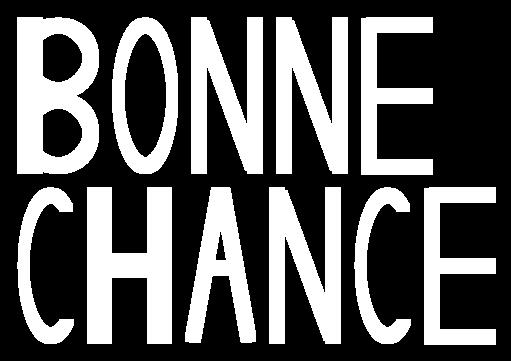
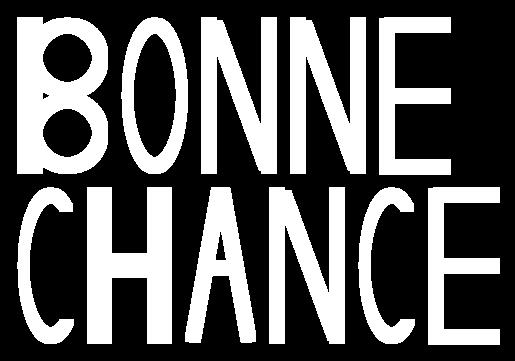
add method for translate and rotate, add constant

diff --git a/src/main/java/Letter/LetterFactory.java b/src/main/java/Letter/LetterFactory.java
@@ -16,7 +16,16 @@ public final class LetterFactory {
     private static final int rotateStripeN = -20;
     private static final double removeTranslateStripeC = stripeThickness+3;
     private static final double translateStripeE = halfMaxHeight-4;
+    private static final double ellipseHeight = maxHeight-stripeThickness;
+    private static final double ellipseWidth = halfMaxWidth+stripeThickness;
+    private static final double stripeHeightC =(ellipseHeight-stripeThickness);
 
+    public static void translateShape(BaseShape shape, double x, double y){
+        shape.translate(shape.getCoords(), new Point2d(x,y));
+    }
+    public static void rotateShape(BaseShape shape, double angle){
+        shape.rotate(shape.getCoords(), Math.toRadians(angle));
+    }
 
     /** TODO
      * Create the letter A graphically
@@ -24,12 +33,12 @@ public final class LetterFactory {
      */
     public static BaseShape create_A()  {
         Rectangle letter = new Rectangle(halfStripeThickness,maxHeight);
-        letter.translate(letter.getCoords(), new Point2d(-(halfMaxWidth/2),0.0));
-        letter.rotate(letter.getCoords(),Math.toRadians(rotateStripeA));
+        translateShape(letter, -(halfMaxWidth/2), 0.0);
+        rotateShape(letter, rotateStripeA);
 
         Rectangle rightStripe = new Rectangle(halfStripeThickness,maxHeight);
-        rightStripe.translate(rightStripe.getCoords(), new Point2d((halfMaxWidth/2),0.0));
-        rightStripe.rotate(rightStripe.getCoords(), Math.toRadians(-rotateStripeA));
+        translateShape(rightStripe, (halfMaxWidth/2), 0.0);
+        rotateShape(rightStripe, -rotateStripeA);
 
         Rectangle middleStripe = new Rectangle(halfMaxWidth,halfStripeThickness);
 
@@ -43,19 +52,18 @@ public final class LetterFactory {
      * @return BaseShape containing the letter B
      */
     public static BaseShape create_B() {
-        double radius = halfMaxHeight/2;
-        double smallRadius = radius - halfStripeThickness;
+        double smallRadius = (halfMaxHeight/2) - halfStripeThickness;
 
         Rectangle letter = new Rectangle(stripeThickness, maxHeight);
         Circle topCircle = new Circle(halfMaxHeight/2);
         Circle bottomCircle = new Circle(halfMaxHeight/2);
         Circle insideCircle = new Circle(smallRadius);
 
-        letter.translate(letter.getCoords(), new Point2d(-halfMaxWidth+5, 0.0));
+        translateShape(letter, -(halfMaxWidth+5), 0.0);
         topCircle.removeAll(insideCircle.getCoords());
         bottomCircle.removeAll(insideCircle.getCoords());
-        topCircle.translate(topCircle.getCoords(), new Point2d(translateCircleB, halfMaxHeight/2));
-        bottomCircle.translate(bottomCircle.getCoords(), new Point2d(translateCircleB, -halfMaxHeight/2));
+        translateShape(topCircle, translateCircleB, halfMaxHeight/2);
+        translateShape(bottomCircle, translateCircleB, -halfMaxHeight/2);
 
         letter.addAll(topCircle.getCoords());
         letter.addAll(bottomCircle.getCoords());
@@ -68,10 +76,10 @@ public final class LetterFactory {
      */
     public static BaseShape create_C() {
         Ellipse letter = new Ellipse(maxWidth, maxHeight);
-        Ellipse inside = new Ellipse((halfMaxWidth+stripeThickness),(maxHeight-stripeThickness));
-        Rectangle rightStripe = new Rectangle(stripeThickness,((maxHeight-stripeThickness)-stripeThickness));
+        Ellipse inside = new Ellipse(ellipseWidth, ellipseHeight);
+        Rectangle rightStripe = new Rectangle(stripeThickness, stripeHeightC);
 
-        rightStripe.translate(rightStripe.getCoords(), new Point2d(removeTranslateStripeC,0.0));
+        translateShape(rightStripe, removeTranslateStripeC,0.0);
         letter.removeAll(inside.getCoords());
         letter.removeAll(rightStripe.getCoords());
 
@@ -88,9 +96,9 @@ public final class LetterFactory {
         Rectangle middleStripe = topStripe.clone();
         Rectangle bottomStripe = topStripe.clone();
 
-        letter.translate(letter.getCoords(), new Point2d(-halfMaxWidth,0.0));
-        topStripe.translate(topStripe.getCoords(), new Point2d(0.0, translateStripeE));
-        bottomStripe.translate(middleStripe.getCoords(), new Point2d(0.0, -translateStripeE));
+        translateShape(letter, -halfMaxWidth, 0.0);
+        translateShape(topStripe,0.0, translateStripeE);
+        translateShape(bottomStripe, 0.0, -translateStripeE);
 
         letter.addAll(topStripe.getCoords());
         letter.addAll(middleStripe.getCoords());
@@ -107,8 +115,8 @@ public final class LetterFactory {
         Rectangle rightStripe = letter.clone();
         Rectangle middleStripe = new Rectangle(maxWidth, stripeThickness);
 
-        letter.translate(letter.getCoords(),new Point2d(-halfMaxWidth,0.0));
-        rightStripe.translate(rightStripe.getCoords(), new Point2d(halfMaxWidth, 0.0));
+        translateShape(letter, -halfMaxWidth, 0.0);
+        translateShape(rightStripe, halfMaxWidth, 0.0);
 
         letter.addAll(rightStripe.getCoords());
         letter.addAll(middleStripe.getCoords());
@@ -124,9 +132,9 @@ public final class LetterFactory {
         Rectangle rightStripe = letter.clone();
         Rectangle middleStripe = letter.clone();
 
-        letter.translate(letter.getCoords(), new Point2d(-halfMaxWidth+2, 0.0));
-        rightStripe.translate(rightStripe.getCoords(), new Point2d(halfMaxWidth-2, 0.0));
-        middleStripe.rotate(middleStripe.getCoords(), Math.toRadians(rotateStripeN));
+        translateShape(letter, -(halfMaxWidth+2),0.0);
+        translateShape(rightStripe, (halfMaxWidth-2),0.0 );
+        rotateShape(middleStripe, rotateStripeN);
 
         letter.addAll(rightStripe.getCoords());
         letter.addAll(middleStripe.getCoords());
@@ -139,7 +147,7 @@ public final class LetterFactory {
      */
     public static BaseShape create_O() {
         Ellipse letter = new Ellipse(maxWidth, maxHeight);
-        Ellipse inside = new Ellipse((halfMaxWidth+stripeThickness),(maxHeight-stripeThickness));
+        Ellipse inside = new Ellipse(ellipseWidth, ellipseHeight);
         letter.removeAll(inside.getCoords());
         return letter;
     }
